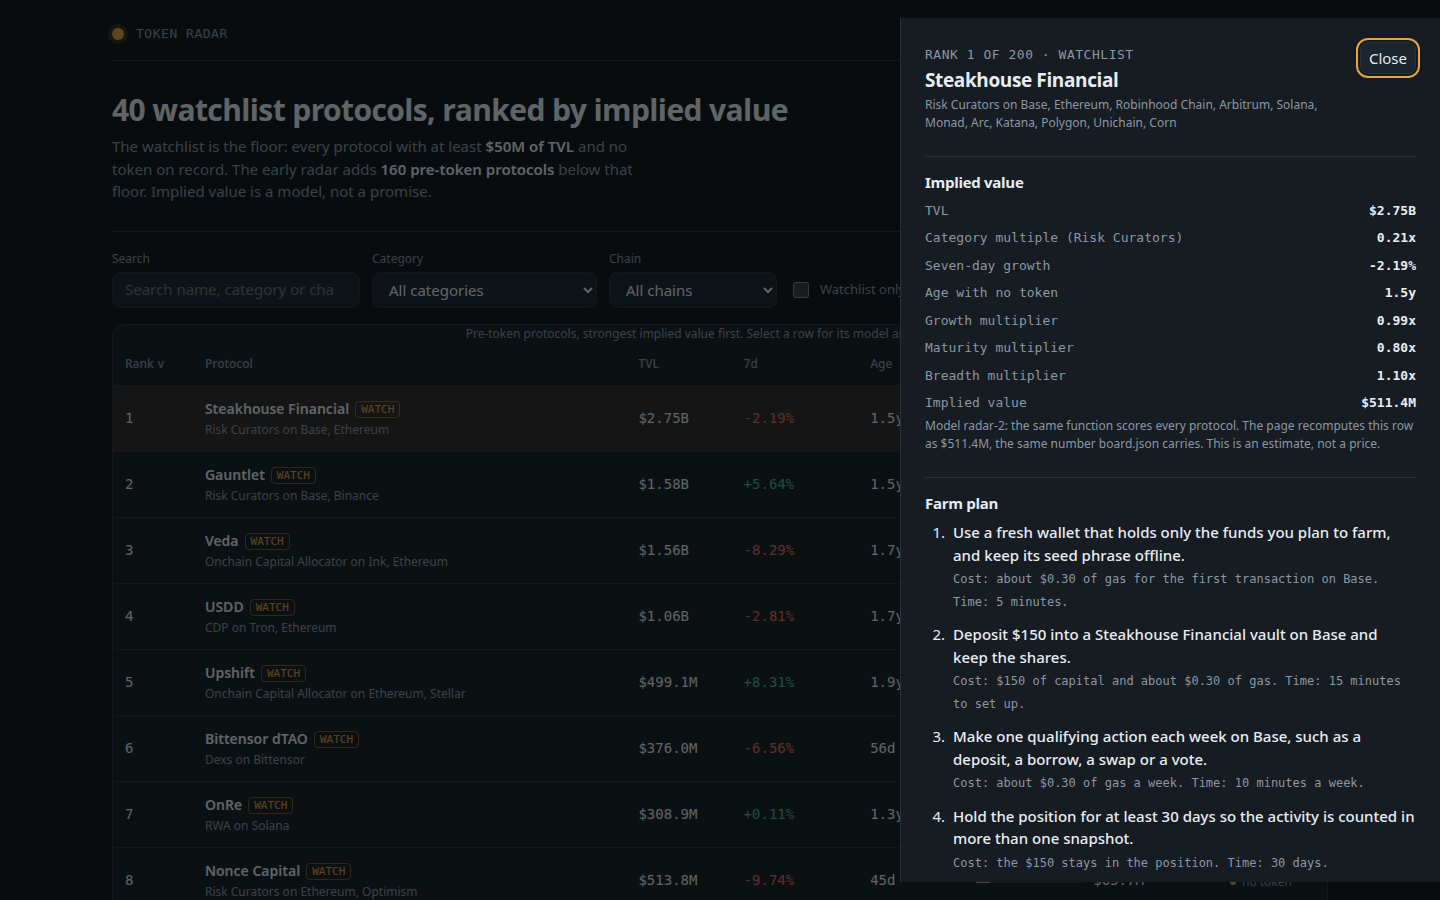
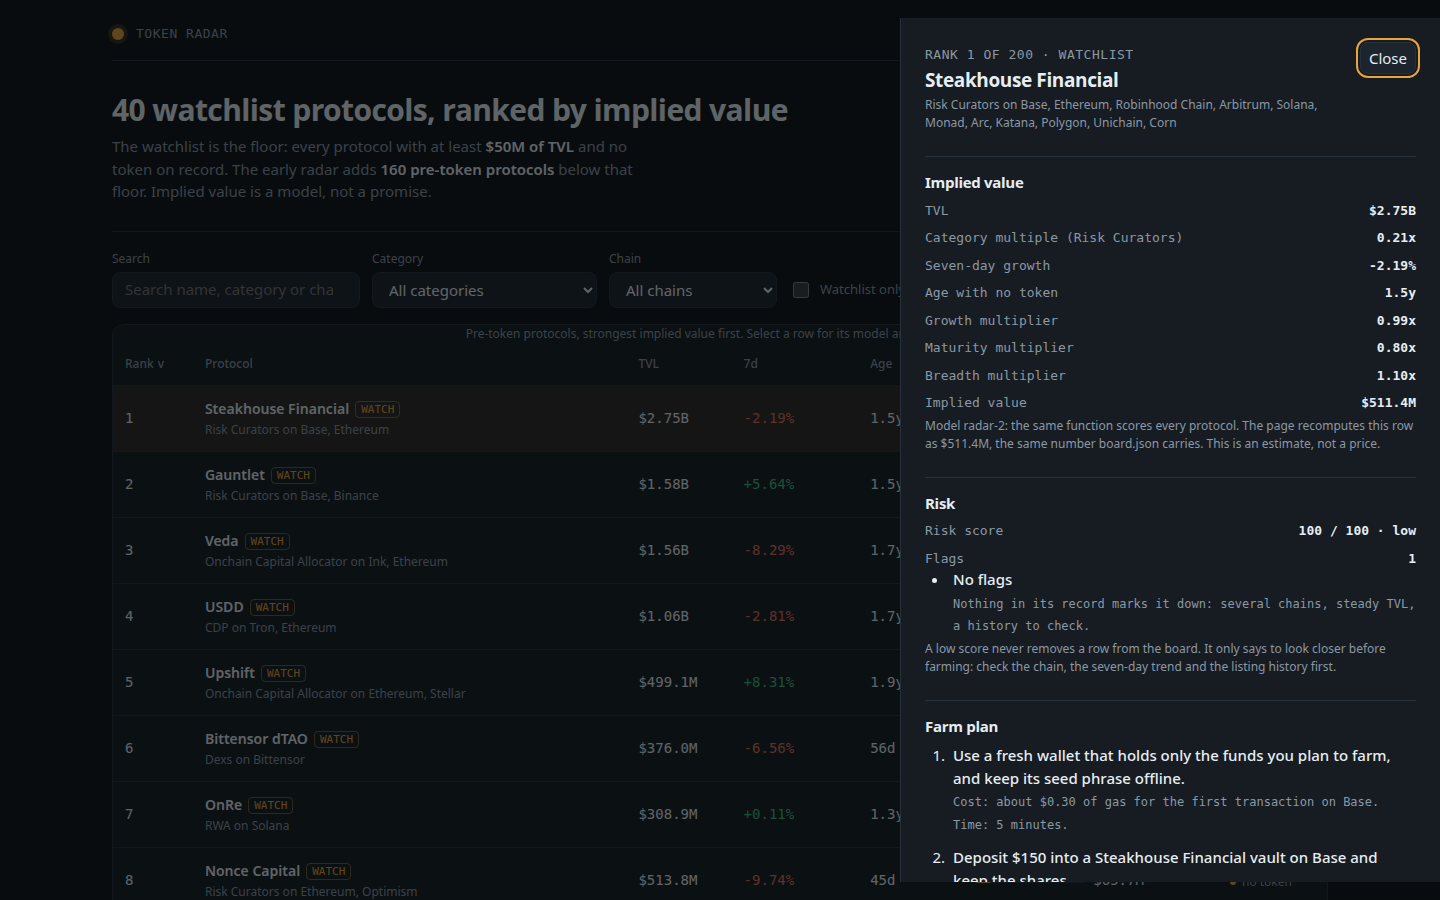
Add a risk score to every row: 100 less flags, shown in the detail drawer
riskScore() in lib/model.ts starts at 100 and deducts for one chain only
(15), a sharp seven-day fall (20), under 90 days of history (10), no
listing date (5) and under $100M TVL (10). The score never changes a
rank; the drawer shows it with its flags and the model panel explains
the bands. Implied values, ranks and farm steps are unchanged.

Changed region(s): [[0.625, 0.5289, 0.9688, 0.9956]]

diff --git a/lib/model.ts b/lib/model.ts
@@ -90,6 +90,19 @@ export interface FarmStep {
   time: string;
 }
 
+/** One thing that marks a protocol down in the risk score, with its cost and why. */
+export interface RiskFactor {
+  label: string;
+  points: number;
+  detail: string;
+}
+
+/** A protocol's risk score: 100 to start, less for every flag, never below 0. */
+export interface RiskScore {
+  score: number;
+  factors: RiskFactor[];
+}
+
 /** One row of board.json: the ranked board's row. */
 export interface BoardRow {
   rank: number;
@@ -115,6 +128,7 @@ export interface BoardRow {
     age_days: number | null;
   };
   farm_steps: string[];
+  risk: RiskScore;
 }
 
 /** The dashboard's compact view of one row, with farm plans generated in the page. */
@@ -135,6 +149,9 @@ export interface RadarRow {
   growth_multiplier: number;
   maturity_multiplier: number;
   breadth_multiplier: number;
+  risk_score: number;
+  risk_label: string;
+  risk_factors: RiskFactor[];
 }
 
 /** A live-token protocol: it already trades, so the board shows the market's own value, not a model's. */
@@ -341,6 +358,7 @@ export function buildBoard(snapshot: Snapshot, model: ModelConstants = MODEL): B
         age_days: s.age,
       },
       farm_steps: farmSteps(s.p, s.age).map(stepText),
+      risk: riskScore(s.p, s.age),
     };
   });
   return rows;
@@ -405,6 +423,44 @@ function holdDaysFor(age: number | null): number {
   if (age < 180) return 60;
   if (age < 365) return 45;
   return 30;
+}
+
+/**
+ * A protocol's risk score, from its own record only. It starts at 100 and loses points for
+ * each flag: one chain only, a sharp seven-day fall, a short or missing history, a small TVL.
+ * The score is a warning, not a verdict: a low score never removes a row from the board, it
+ * only says to look closer before farming. A protocol with no flag at all scores 100, and
+ * the factors list always carries at least one entry, so the drawer always has something to show.
+ */
+export function riskScore(p: SnapshotProtocol, age: number | null): RiskScore {
+  const factors: RiskFactor[] = [];
+  if (p.chains.length <= 1) {
+    factors.push({ label: 'One chain only', points: 15, detail: 'All of its TVL sits on a single chain, so one outage or bridge failure strands the whole position.' });
+  }
+  const fall = finite(p.change_7d, 0);
+  if (fall <= -20) {
+    factors.push({ label: 'Sharp seven-day fall', points: 20, detail: 'TVL fell by a fifth or more in seven days: money is leaving faster than it arrives.' });
+  }
+  if (age === null) {
+    factors.push({ label: 'No listing date', points: 5, detail: 'No listing date is on record, so the age behind the maturity multiplier is a guess.' });
+  } else if (age < 90) {
+    factors.push({ label: 'Listed under 90 days ago', points: 10, detail: 'Less than three months of history to judge the protocol by.' });
+  }
+  if (p.tvl_usd < 100_000_000) {
+    factors.push({ label: 'Under $100M TVL', points: 10, detail: 'Thin liquidity: a small pool moves further on the same trade.' });
+  }
+  if (factors.length === 0) {
+    factors.push({ label: 'No flags', points: 0, detail: 'Nothing in its record marks it down: several chains, steady TVL, a history to check.' });
+  }
+  const score = Math.max(0, 100 - factors.reduce((sum, f) => sum + f.points, 0));
+  return { score, factors };
+}
+
+/** The risk score in one word: low, medium or high. */
+export function riskLabel(score: number): string {
+  if (score >= 85) return 'low';
+  if (score >= 65) return 'medium';
+  return 'high';
 }
 
 /** The category's one action, in the words a farmer can follow. */
@@ -507,6 +563,9 @@ export function radarRow(row: BoardRow, watchlist: Set<string>): RadarRow {
     growth_multiplier: row.model.growth_multiplier,
     maturity_multiplier: row.model.maturity_multiplier,
     breadth_multiplier: row.model.breadth_multiplier,
+    risk_score: row.risk.score,
+    risk_label: riskLabel(row.risk.score),
+    risk_factors: row.risk.factors,
   };
 }
 

diff --git a/dashboard/app.js b/dashboard/app.js
@@ -357,6 +357,18 @@
         'implied = round( tvl_usd x category_multiple x (1 + clamp(change_7d, ' + m.growth_floor + ', ' + m.growth_cap + ') / 100 x ' + m.growth_weight + ') x (' + m.maturity_floor + ' + min(age_days, ' + m.maturity_days + ') / ' + m.maturity_days + ' x ' + m.maturity_range + ') x (1 + 0.02 x min(chains - 1, 5)) )'
       ),
       el('p', { class: 'sub', text: 'TVL and seven-day growth come from the snapshot. Age is the time since the protocol was first listed, the best record of how long it has run with no token; an unlisted age uses ' + m.unknown_age_days + ' days. Breadth counts the chains a protocol runs on. The early radar is every pre-token protocol below the watchlist floor, by TVL, and the live-token protocols are set aside with their market caps shown.' }),
+      el('p', { class: 'sub', text: 'Each row also carries a risk score from 100: one chain only costs 15, a seven-day fall of a fifth or more costs 20, under 90 days of history costs 10, no listing date costs 5, and under $100M of TVL costs 10. The score never changes a rank; it only says how closely to look before farming.' }),
+      el('div', null,
+        el('h3', { text: 'Risk bands: what the score means' }),
+        el('table', { class: 'comps' },
+          el('thead', null, el('tr', null, el('th', { scope: 'col', text: 'Band' }), el('th', { scope: 'col', text: 'Score' }), el('th', { scope: 'col', text: 'Read it as' }))),
+          el('tbody', null,
+            el('tr', null, el('td', { text: 'Low' }), el('td', { class: 'num', text: '85 – 100' }), el('td', { text: 'No flag, or one small one: farm as planned.' })),
+            el('tr', null, el('td', { text: 'Medium' }), el('td', { class: 'num', text: '65 – 84' }), el('td', { text: 'Something to check: read the flags before depositing.' })),
+            el('tr', null, el('td', { text: 'High' }), el('td', { class: 'num', text: '0 – 64' }), el('td', { text: 'Several flags at once: look closer, or skip it.' }))
+          )
+        )
+      ),
       el('div', { class: 'sandbox' },
         el('h3', { text: 'Model sandbox: change the weights, watch the board re-rank' }),
         el('div', { class: 'sandbox-row' },
@@ -429,6 +441,17 @@
         el('p', { class: 'sub', text: comp.n + ' live-token ' + (row.category || 'Other') + ' protocols trade at a median of ' + fmtMult(comp.median_multiple) + ' of market cap per $1 of TVL. That median is this row’s multiple; a category with fewer live protocols falls back to the global median of ' + fmtMult(DATA.global_multiple) + '.' })
       ));
     }
+    dialog.appendChild(el('section', { class: 'detail-section' },
+      el('h3', { text: 'Risk' }),
+      el('div', { class: 'equation' },
+        el('div', null, el('span', { text: 'Risk score' }), el('b', { class: 'num', text: String(row.risk_score) + ' / 100 · ' + row.risk_label })),
+        el('div', null, el('span', { text: 'Flags' }), el('b', { class: 'num', text: String(row.risk_factors.length) }))
+      ),
+      el('ul', { class: 'risk' }, row.risk_factors.map(function (f) {
+        return el('li', null, el('b', { text: f.label + (f.points > 0 ? ' −' + f.points : '') }), el('span', { class: 'cost', text: f.detail }));
+      })),
+      el('p', { class: 'sub', text: 'A low score never removes a row from the board. It only says to look closer before farming: check the chain, the seven-day trend and the listing history first.' })
+    ));
     dialog.appendChild(el('section', { class: 'detail-section' },
       el('h3', { text: 'Farm plan' }),
       el('ol', { class: 'steps' }, steps.map(function (s) {

diff --git a/dashboard/app.css b/dashboard/app.css
@@ -140,6 +140,10 @@ tbody tr[data-selected="true"] { background: rgba(232, 163, 61, 0.10); }
 .steps { margin: 0; padding-left: var(--s5); display: grid; gap: var(--s3); }
 .steps li { padding-left: var(--s1); }
 .steps b { display: block; font-weight: 500; }
+.risk { margin: 0; padding-left: var(--s5); display: grid; gap: var(--s3); }
+.risk li { padding-left: var(--s1); }
+.risk li::marker { color: var(--amber); }
+.risk b { display: block; font-weight: 500; }
 .cost { color: var(--muted); font-size: 12px; font-family: var(--font-num); }
 .foot { color: var(--muted); font-size: 12px; padding: var(--s5) 0 var(--s2); }
 
